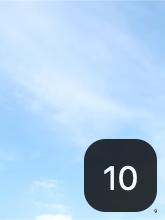
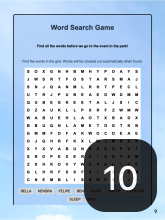
Book Updates

diff --git a/Payload/1.1.1/META-INF/com.pubcoder.xreader.meta.js b/Payload/1.1.1/META-INF/com.pubcoder.xreader.meta.js
@@ -1,1 +1,1 @@
-app.rendition.data = {"assets":["assets/images/blue-sky-cloud.jpg","assets/audio/Baseball.mp3","assets/images/obj364_image.jpeg","assets/images/obj442_image.png","assets/images/obj368_image.png","assets/1/thumbnail.png","assets/1/loading.jpg","assets/images/obj286_image.png","assets/2/thumbnail.png","assets/2/loading.jpg","assets/images/obj299_image.jpeg","assets/images/obj301_image.png","assets/images/obj478_image.png","assets/audio/door-open-and-close.mp3","assets/3/thumbnail.png","assets/3/loading.jpg","assets/images/obj306_image.jpeg","assets/images/obj310_image.png","assets/audio/reading.mp3","assets/4/thumbnail.png","assets/4/loading.jpg","assets/images/Fireworks.gif","assets/audio/fireworks.mp3","assets/images/obj389_image.png","assets/5/thumbnail.png","assets/5/loading.jpg","assets/images/obj63_image.png","assets/audio/Playground.mp3","assets/6/thumbnail.png","assets/6/loading.jpg","assets/images/obj68_image.png","assets/audio/RollerBlade.mp3","assets/7/thumbnail.png","assets/7/loading.jpg","assets/images/obj58_image.png","assets/images/notes.gif","assets/images/obj490_image.png","assets/audio/ouside-noises.mp3","assets/8/thumbnail.png","assets/8/loading.jpg","assets/images/Flowers-2.png","assets/9/thumbnail.png","assets/9/loading.jpg","assets/10/thumbnail.png","assets/10/loading.jpg","assets/audio/Cheering.mp3","assets/images/obj124_image.png","assets/11/thumbnail.png","assets/11/loading.jpg","assets/12/thumbnail.png","assets/12/loading.jpg"],"meta":{"author":"pwj11","cover":"assets/images/pubcoder_book_cover.jpg","created":"2024-07-12 17:24:18","description":"Powered by PubCoder","height":1024,"identifier":"97B67C4DD58C2F488F9C17BD612E8D17","language":"en","orientation":"auto","page-progression-direction":"ltr","publisher":"pwj11","rights":"© 2024 pwj11","title":"Bella Bellows","width":768},"options":{"autoplay":true,"enableAnnotations":false,"enableReadaloud":false,"enableSearch":false,"enableSoundtrack":false,"enableThumbnails":true,"navigationArrows":true,"pinchToZoom":false,"soundtrackVolumeDefault":80,"swipeToNavigate":false,"touchToOpenAppMenu":false,"viewportFitCover":true},"pages":[{"id":2,"loadingImageUrl":"assets/1/loading.jpg","number":1,"thumbnailImageUrl":"assets/1/thumbnail.png","title":"1","url":"assets/1/page.xhtml"},{"id":281,"loadingImageUrl":"assets/2/loading.jpg","number":2,"thumbnailImageUrl":"assets/2/thumbnail.png","title":"2","url":"assets/2/page.xhtml"},{"id":298,"loadingImageUrl":"assets/3/loading.jpg","number":3,"thumbnailImageUrl":"assets/3/thumbnail.png","title":"3","url":"assets/3/page.xhtml"},{"id":305,"loadingImageUrl":"assets/4/loading.jpg","number":4,"thumbnailImageUrl":"assets/4/thumbnail.png","title":"4","url":"assets/4/page.xhtml"},{"id":21,"loadingImageUrl":"assets/5/loading.jpg","number":5,"thumbnailImageUrl":"assets/5/thumbnail.png","title":"5","url":"assets/5/page.xhtml"},{"id":19,"loadingImageUrl":"assets/6/loading.jpg","number":6,"thumbnailImageUrl":"assets/6/thumbnail.png","title":"6","url":"assets/6/page.xhtml"},{"id":20,"loadingImageUrl":"assets/7/loading.jpg","number":7,"thumbnailImageUrl":"assets/7/thumbnail.png","title":"7","url":"assets/7/page.xhtml"},{"id":18,"loadingImageUrl":"assets/8/loading.jpg","number":8,"thumbnailImageUrl":"assets/8/thumbnail.png","title":"8","url":"assets/8/page.xhtml"},{"id":23,"loadingImageUrl":"assets/9/loading.jpg","number":9,"thumbnailImageUrl":"assets/9/thumbnail.png","title":"9","url":"assets/9/page.xhtml"},{"id":189,"loadingImageUrl":"assets/10/loading.jpg","number":10,"thumbnailImageUrl":"assets/10/thumbnail.png","title":"10","url":"assets/10/page.xhtml"},{"id":24,"loadingImageUrl":"assets/11/loading.jpg","number":11,"thumbnailImageUrl":"assets/11/thumbnail.png","title":"11","url":"assets/11/page.xhtml"},{"id":428,"loadingImageUrl":"assets/12/loading.jpg","number":12,"thumbnailImageUrl":"assets/12/thumbnail.png","title":"12","url":"assets/12/page.xhtml"}],"toc":[{"pageNumber":1,"title":"Chapter 1","url":"assets/1/page.xhtml"}]};
+app.rendition.data = {"assets":["assets/images/blue-sky-cloud.jpg","assets/audio/Baseball.mp3","assets/images/obj364_image.jpeg","assets/images/obj442_image.png","assets/images/obj368_image.png","assets/1/thumbnail.png","assets/1/loading.jpg","assets/images/obj286_image.png","assets/2/thumbnail.png","assets/2/loading.jpg","assets/images/obj299_image.jpeg","assets/images/obj301_image.png","assets/images/obj478_image.png","assets/audio/door-open-and-close.mp3","assets/3/thumbnail.png","assets/3/loading.jpg","assets/images/obj306_image.jpeg","assets/images/obj310_image.png","assets/audio/reading.mp3","assets/4/thumbnail.png","assets/4/loading.jpg","assets/images/Fireworks.gif","assets/audio/fireworks.mp3","assets/images/obj389_image.png","assets/5/thumbnail.png","assets/5/loading.jpg","assets/images/obj63_image.png","assets/audio/Playground.mp3","assets/6/thumbnail.png","assets/6/loading.jpg","assets/images/obj68_image.png","assets/audio/RollerBlade.mp3","assets/7/thumbnail.png","assets/7/loading.jpg","assets/images/obj58_image.png","assets/images/notes.gif","assets/images/obj490_image.png","assets/audio/ouside-noises.mp3","assets/8/thumbnail.png","assets/8/loading.jpg","assets/images/Flowers-2.png","assets/9/thumbnail.png","assets/9/loading.jpg","assets/10/thumbnail.png","assets/10/loading.jpg","assets/audio/Cheering.mp3","assets/images/obj124_image.png","assets/11/thumbnail.png","assets/11/loading.jpg","assets/12/thumbnail.png","assets/12/loading.jpg"],"meta":{"author":"pwj11","cover":"assets/images/pubcoder_book_cover.jpg","created":"2024-07-13 05:11:15","description":"Powered by PubCoder","height":1024,"identifier":"97B67C4DD58C2F488F9C17BD612E8D17","language":"en","orientation":"auto","page-progression-direction":"ltr","publisher":"pwj11","rights":"© 2024 pwj11","title":"Bella Bellows","width":768},"options":{"autoplay":false,"enableAnnotations":false,"enableReadaloud":false,"enableSearch":false,"enableSoundtrack":false,"enableThumbnails":true,"navigationArrows":true,"pinchToZoom":false,"soundtrackVolumeDefault":80,"swipeToNavigate":true,"touchToOpenAppMenu":false,"viewportFitCover":true},"pages":[{"id":2,"loadingImageUrl":"assets/1/loading.jpg","number":1,"thumbnailImageUrl":"assets/1/thumbnail.png","title":"1","url":"assets/1/page.xhtml"},{"id":281,"loadingImageUrl":"assets/2/loading.jpg","number":2,"thumbnailImageUrl":"assets/2/thumbnail.png","title":"2","url":"assets/2/page.xhtml"},{"id":298,"loadingImageUrl":"assets/3/loading.jpg","number":3,"thumbnailImageUrl":"assets/3/thumbnail.png","title":"3","url":"assets/3/page.xhtml"},{"id":305,"loadingImageUrl":"assets/4/loading.jpg","number":4,"thumbnailImageUrl":"assets/4/thumbnail.png","title":"4","url":"assets/4/page.xhtml"},{"id":21,"loadingImageUrl":"assets/5/loading.jpg","number":5,"thumbnailImageUrl":"assets/5/thumbnail.png","title":"5","url":"assets/5/page.xhtml"},{"id":19,"loadingImageUrl":"assets/6/loading.jpg","number":6,"thumbnailImageUrl":"assets/6/thumbnail.png","title":"6","url":"assets/6/page.xhtml"},{"id":20,"loadingImageUrl":"assets/7/loading.jpg","number":7,"thumbnailImageUrl":"assets/7/thumbnail.png","title":"7","url":"assets/7/page.xhtml"},{"id":18,"loadingImageUrl":"assets/8/loading.jpg","number":8,"thumbnailImageUrl":"assets/8/thumbnail.png","title":"8","url":"assets/8/page.xhtml"},{"id":23,"loadingImageUrl":"assets/9/loading.jpg","number":9,"thumbnailImageUrl":"assets/9/thumbnail.png","title":"9","url":"assets/9/page.xhtml"},{"id":189,"loadingImageUrl":"assets/10/loading.jpg","number":10,"thumbnailImageUrl":"assets/10/thumbnail.png","title":"10","url":"assets/10/page.xhtml"},{"id":24,"loadingImageUrl":"assets/11/loading.jpg","number":11,"thumbnailImageUrl":"assets/11/thumbnail.png","title":"11","url":"assets/11/page.xhtml"},{"id":428,"loadingImageUrl":"assets/12/loading.jpg","number":12,"thumbnailImageUrl":"assets/12/thumbnail.png","title":"12","url":"assets/12/page.xhtml"}],"toc":[{"pageNumber":1,"title":"Chapter 1","url":"assets/1/page.xhtml"}]};

diff --git a/Payload/1.1.1/OEBPS/assets/3/styles.css b/Payload/1.1.1/OEBPS/assets/3/styles.css
@@ -45,8 +45,8 @@ img#obj299_img {
 div#obj301 {
 position: absolute;
 overflow: hidden;
-top: 67px;
-left: 80px;
+top: 118px;
+left: 81px;
 width: 285px;
 height: 241px;
 opacity: 1;
@@ -75,10 +75,10 @@ img#obj301_img {
 div#obj478 {
 position: absolute;
 overflow: hidden;
-top: 438px;
-left: 359px;
-width: 339px;
-height: 381px;
+top: 437px;
+left: 366px;
+width: 334px;
+height: 435px;
 opacity: 1;
 z-index: 7;
 display:block;
@@ -99,16 +99,16 @@ img#obj478_img {
 	position: absolute;
 	left: -3px;
 	top: -3px;
-	width: 339px;
-	height: 381px;
+	width: 334px;
+	height: 435px;
 }
 
 div#obj303 {
 position: absolute;
 overflow: hidden;
-top: 476px;
-left: 80px;
-width: 260px;
+top: 175px;
+left: 377px;
+width: 310px;
 height: 304px;
 opacity: 1;
 z-index: 2;
@@ -148,7 +148,7 @@ div#obj394_content {
 div#obj472 {
 position: absolute;
 overflow: hidden;
-top: 74px;
+top: 89px;
 left: 378px;
 width: 310px;
 height: 97px;
@@ -169,10 +169,10 @@ div#obj472_content {
 div#obj474 {
 position: absolute;
 overflow: hidden;
-top: 329px;
-left: 80px;
-width: 634px;
-height: 96px;
+top: 449px;
+left: 71px;
+width: 275px;
+height: 219px;
 opacity: 1;
 z-index: 5;
 display:block;
@@ -189,10 +189,10 @@ div#obj474_content {
 div#obj476 {
 position: absolute;
 overflow: hidden;
-top: 832px;
-left: 80px;
-width: 542px;
-height: 106px;
+top: 681px;
+left: 71px;
+width: 275px;
+height: 161px;
 opacity: 1;
 z-index: 6;
 display:block;

diff --git a/Payload/1.1.1/OEBPS/assets/8/styles.css b/Payload/1.1.1/OEBPS/assets/8/styles.css
@@ -45,10 +45,10 @@ img#obj345_img {
 div#obj58 {
 position: absolute;
 overflow: hidden;
-top: 78px;
-left: 95px;
+top: 74px;
+left: 82px;
 width: 297px;
-height: 285px;
+height: 320px;
 opacity: 1;
 z-index: 1;
 display:block;
@@ -70,13 +70,13 @@ img#obj58_img {
 	left: -3px;
 	top: -3px;
 	width: 297px;
-	height: 285px;
+	height: 320px;
 }
 div#obj275 {
 position: absolute;
 overflow: hidden;
-top: 171px;
-left: 158px;
+top: 116px;
+left: 144px;
 width: 162px;
 height: 146px;
 opacity: 0.45;
@@ -103,7 +103,7 @@ img#obj275_img {
 div#obj490 {
 position: absolute;
 overflow: hidden;
-top: 393px;
+top: 427px;
 left: 379px;
 width: 312px;
 height: 311px;
@@ -155,9 +155,9 @@ div#obj404_content {
 div#obj481 {
 position: absolute;
 overflow: hidden;
-top: 78px;
-left: 410px;
-width: 250px;
+top: 74px;
+left: 415px;
+width: 282px;
 height: 293px;
 opacity: 1;
 z-index: 4;
@@ -175,8 +175,8 @@ div#obj481_content {
 div#obj488 {
 position: absolute;
 overflow: hidden;
-top: 393px;
-left: 95px;
+top: 427px;
+left: 82px;
 width: 268px;
 height: 466px;
 opacity: 1;
@@ -195,7 +195,7 @@ div#obj488_content {
 div#obj493 {
 position: absolute;
 overflow: hidden;
-top: 732px;
+top: 764px;
 left: 379px;
 width: 312px;
 height: 204px;

diff --git a/Payload/1.1.1/OEBPS/assets/6/styles.css b/Payload/1.1.1/OEBPS/assets/6/styles.css
@@ -45,8 +45,8 @@ img#obj350_img {
 div#obj63 {
 position: absolute;
 overflow: hidden;
-top: 263px;
-left: 84px;
+top: 286px;
+left: 87px;
 width: 297px;
 height: 396px;
 opacity: 1;
@@ -76,7 +76,7 @@ img#obj63_img {
 div#obj66 {
 position: absolute;
 overflow: hidden;
-top: 88px;
+top: 105px;
 left: 84px;
 width: 617px;
 height: 153px;
@@ -137,10 +137,10 @@ div#obj449_content {
 div#obj451 {
 position: absolute;
 overflow: hidden;
-top: 696px;
+top: 724px;
 left: 84px;
 width: 617px;
-height: 266px;
+height: 203px;
 opacity: 1;
 z-index: 6;
 display:block;

diff --git a/Payload/1.1.1/OEBPS/assets/12/styles.css b/Payload/1.1.1/OEBPS/assets/12/styles.css
@@ -46,10 +46,10 @@ img#obj429_img {
 div#obj440 {
 position: absolute;
 overflow: hidden;
-top: 143px;
+top: 187px;
 left: 102px;
 width: 565px;
-height: 746px;
+height: 648px;
 opacity: 1;
 z-index: 1;
 display:block;

diff --git a/Payload/1.1.1/OEBPS/assets/11/styles.css b/Payload/1.1.1/OEBPS/assets/11/styles.css
@@ -75,8 +75,8 @@ img#obj124_img {
 div#obj137 {
 position: absolute;
 overflow: hidden;
-top: 217px;
-left: 283px;
+top: 172px;
+left: 115px;
 width: 535px;
 height: 497px;
 opacity: 0.523;

diff --git a/Payload/1.1.1/OEBPS/assets/5/styles.css b/Payload/1.1.1/OEBPS/assets/5/styles.css
@@ -73,8 +73,8 @@ img#obj163_img {
 div#obj389 {
 position: absolute;
 overflow: hidden;
-top: 404px;
-left: 135px;
+top: 378px;
+left: 146px;
 width: 488px;
 height: 192px;
 opacity: 1;

diff --git a/Payload/1.1.1/OEBPS/assets/9/styles.css b/Payload/1.1.1/OEBPS/assets/9/styles.css
@@ -107,7 +107,7 @@ div#obj402_content {
   -webkit-border-radius: 6px;
   position: absolute;
 overflow: hidden;
-top: 302px;
+top: 265px;
 left: 145px;
 width: 478px;
 height: 578px;

diff --git a/Payload/1.1.1/OEBPS/assets/1/styles.css b/Payload/1.1.1/OEBPS/assets/1/styles.css
@@ -47,8 +47,8 @@ img#obj364_img {
 div#obj442 {
 position: absolute;
 overflow: hidden;
-top: 203px;
-left: 4px;
+top: 202px;
+left: 3px;
 width: 760px;
 height: 893px;
 opacity: 1;

diff --git a/Payload/1.1.1/OEBPS/assets/2/styles.css b/Payload/1.1.1/OEBPS/assets/2/styles.css
@@ -78,7 +78,7 @@ img#obj286_img {
 div#obj331 {
 position: absolute;
 overflow: hidden;
-top: 811px;
+top: 806px;
 left: 88px;
 width: 617px;
 height: 132px;
